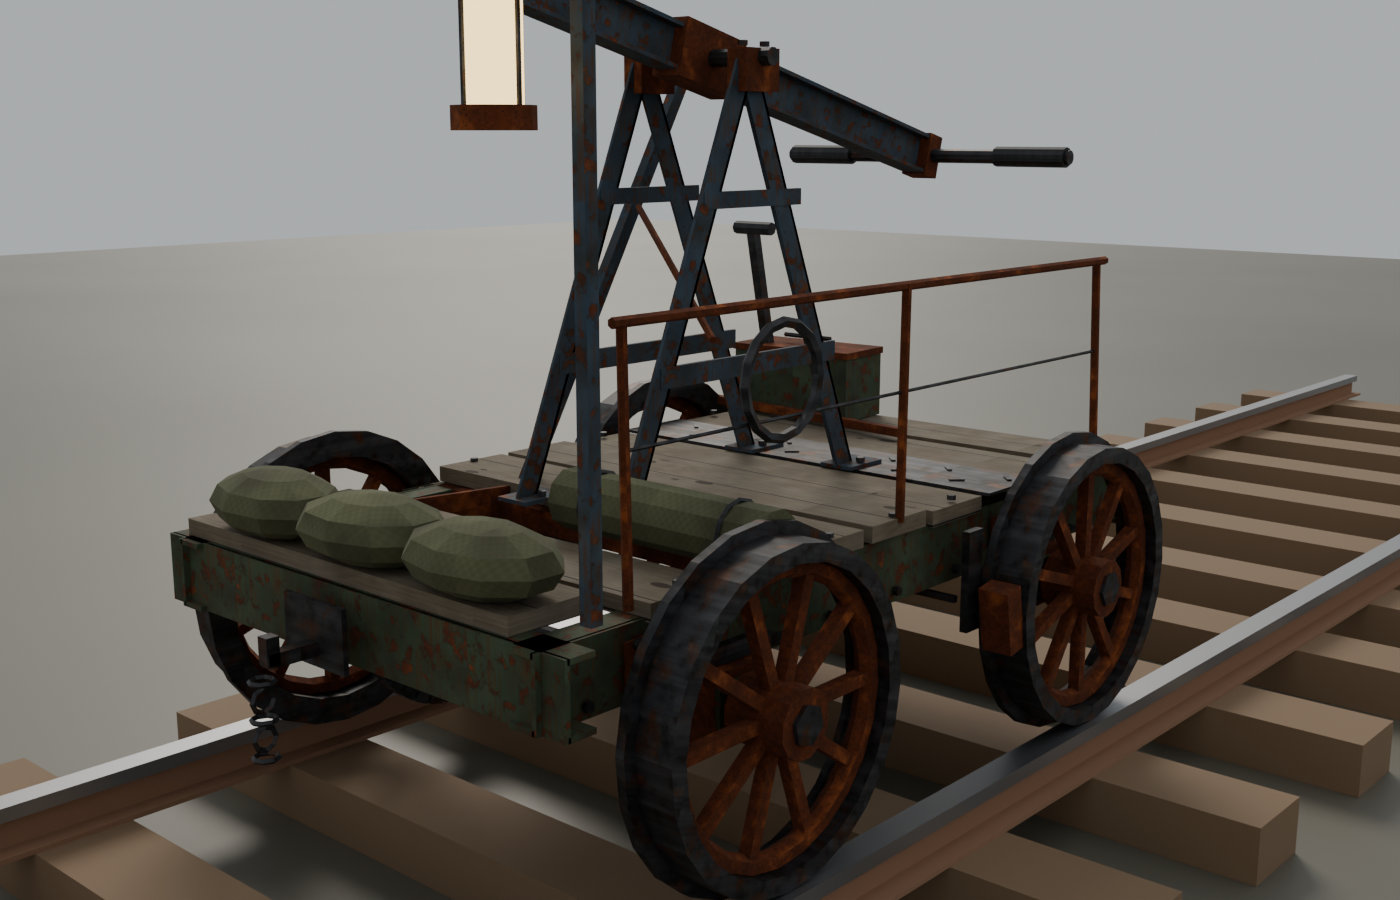
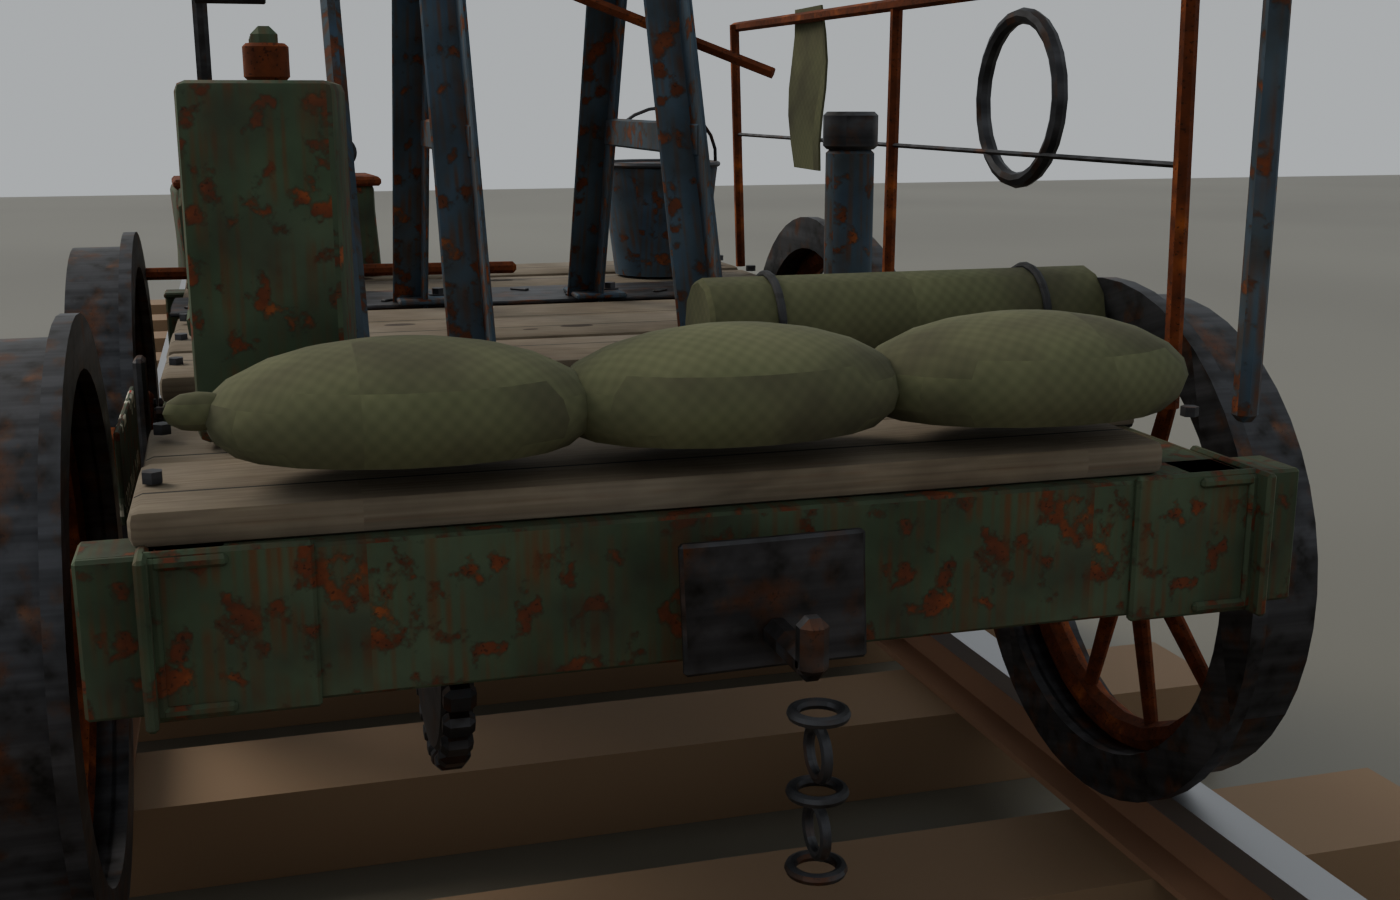
Hand car: layers 5-7, rounded geometry, LOD1/LOD2
- bevel on every box, up to 32-sided cylinders, oval tapered spokes,
  smooth-by-angle shading so curved parts show no facets
- layer 5 fasteners/welds, layer 6 track-walker gear, layer 7 damage
- decimated LOD1/LOD2 exports keeping named selections

Claude-Session: https://claude.ai/code/session_01TKUioEqxmWdNM9STt7fQBA

diff --git a/tools/blender/handcar_zone.py b/tools/blender/handcar_zone.py
@@ -8,6 +8,15 @@
             керосиновый фонарь на штанге, ящик с инструментом, мешки с песком, моток проволоки,
             изолента на ручках, табличка с трафаретным номером.
   СЛОЙ 4 — материалы: процедурные текстуры (tools/textures/make_textures.py) + UV-развёртка кубом.
+  СЛОЙ 5 — крепёж и сварка: сварные швы, шайбы под гайками, U-болты рессор, шплинты, пресс-маслёнки,
+            гайки на концах осей.
+  СЛОЙ 6 — быт путевого обходчика: маслёнка с носиком, ведро с песком, канистра, навесной замок на ящике,
+            термос, моток верёвки на штанге фонаря, тряпка на поручне.
+  СЛОЙ 7 — повреждения: вмятины на листовом металле, пулевые отверстия в кожухе и ящике, расщеп доски.
+
+Скругление: все бруски получают фаску (bevel), цилиндры — до 32 граней, всё сглаживается по углу
+(Smooth by Angle 35°), поэтому граней не видно, а плоскости остаются плоскими.
+Дополнительно сохраняются упрощённые handcar_lod1 / handcar_lod2 для дальних LOD.
 
 Named selections / memory-точки (не менять — на них завязаны model.cfg и скрипт):
   lever, wheel_fl, wheel_fr, wheel_rl, wheel_rr, body;
@@ -76,20 +85,82 @@ def _finish(o, name, mat):
     return o
 
 
-def box(name, size, loc, mat, rot=(0, 0, 0)):
+def bevel(o, width, segments):
+    mod = o.modifiers.new("bevel", "BEVEL")
+    mod.width = width
+    mod.segments = segments
+    mod.limit_method = "ANGLE"
+    mod.angle_limit = math.radians(40)
+    mod.harden_normals = False
+    bpy.context.view_layer.objects.active = o
+    bpy.ops.object.modifier_apply(modifier=mod.name)
+
+
+def box(name, size, loc, mat, rot=(0, 0, 0), round_edges=True):
+    """Брусок с фаской: на рёбрах ловится блик, граней не видно."""
     bpy.ops.mesh.primitive_cube_add(size=1, location=loc, rotation=rot)
     o = bpy.context.active_object
     o.scale = size
     bpy.ops.object.transform_apply(location=False, rotation=False, scale=True)
+    smallest = min(size)
+    if round_edges and smallest > 0.004:
+        bevel(o, min(0.012, smallest * 0.3), 2 if smallest > 0.03 else 1)
     return _finish(o, name, mat)
 
 
-def cyl(name, r, depth, loc, mat, rot=(0, 0, 0), verts=12):
+def auto_verts(r):
+    """Число граней цилиндра по радиусу: мелочь 12, крупное до 32."""
+    return int(max(12, min(32, round(r * 160 / 4) * 4)))
+
+
+def cyl(name, r, depth, loc, mat, rot=(0, 0, 0), verts=None):
+    if verts is None or verts > 6:
+        verts = max(verts or 0, auto_verts(r))
     bpy.ops.mesh.primitive_cylinder_add(vertices=verts, radius=r, depth=depth, location=loc, rotation=rot)
+    o = bpy.context.active_object
+    if verts > 6 and depth > 0.02:
+        bevel(o, min(r * 0.15, depth * 0.2, 0.006), 1)
+    return _finish(o, name, mat)
+
+
+def cone(name, r1, r2, depth, loc, mat, rot=(0, 0, 0), verts=12):
+    bpy.ops.mesh.primitive_cone_add(vertices=verts, radius1=r1, radius2=r2, depth=depth, location=loc, rotation=rot)
     return _finish(bpy.context.active_object, name, mat)
 
 
+def sphere(name, r, loc, mat, scale=(1, 1, 1), seg=(16, 10), rot=(0, 0, 0)):
+    bpy.ops.mesh.primitive_uv_sphere_add(segments=seg[0], ring_count=seg[1], radius=r, location=loc, rotation=rot)
+    o = bpy.context.active_object
+    o.scale = scale
+    bpy.ops.object.transform_apply(location=False, rotation=True, scale=True)
+    return _finish(o, name, mat)
+
+
+def smooth(obj, angle=35):
+    bpy.ops.object.select_all(action="DESELECT")
+    obj.select_set(True)
+    bpy.context.view_layer.objects.active = obj
+    bpy.ops.object.shade_smooth_by_angle(angle=math.radians(angle))
+
+
+def dent(obj, amount, cuts=4, seed=0):
+    """Вмятины: подразбить лист и сдвинуть вершины гладким «шумом» из синусов."""
+    bpy.ops.object.select_all(action="DESELECT")
+    obj.select_set(True)
+    bpy.context.view_layer.objects.active = obj
+    bpy.ops.object.mode_set(mode="EDIT")
+    bpy.ops.mesh.select_all(action="SELECT")
+    bpy.ops.mesh.subdivide(number_cuts=cuts)
+    bpy.ops.object.mode_set(mode="OBJECT")
+    for v in obj.data.vertices:
+        x, y, z = v.co
+        n = (math.sin(x * 23 + seed) * math.sin(y * 19 + seed * 2) + math.sin(z * 17 + y * 7 + seed)) * 0.5
+        v.co.x += n * amount
+        v.co.y += math.sin(x * 13 + z * 11 + seed) * amount * 0.6
+
+
 def torus(name, R, r, loc, mat, rot=(0, 0, 0), seg=(20, 6)):
+    seg = (max(seg[0], 24), max(seg[1], 8))
     bpy.ops.mesh.primitive_torus_add(major_radius=R, minor_radius=r, major_segments=seg[0], minor_segments=seg[1],
                                      location=loc, rotation=rot)
     return _finish(bpy.context.active_object, name, mat)
@@ -99,7 +170,7 @@ ROT_X = (0, math.radians(90), 0)   # ось цилиндра вдоль X
 ROT_Y = (math.radians(90), 0, 0)   # ось цилиндра вдоль Y
 
 
-def tube_x(name, r_out, r_in, width, loc, mat, segments=24):
+def tube_x(name, r_out, r_in, width, loc, mat, segments=48):
     """Кольцо с осью X (бандаж/обод)."""
     import bmesh
     mesh = bpy.data.meshes.new(name)
@@ -286,11 +357,19 @@ def wheel(name, x, y, m):
     for i in range(spokes):
         a = 2 * math.pi * i / spokes
         r = (WHEEL_R - 0.06 + 0.075) / 2
-        parts.append(box(f"{name}_spoke{i}", (0.03, 0.028, WHEEL_R - 0.11),
-                         (x, y + math.sin(a) * r, WHEEL_R + math.cos(a) * r), m["rust"], (-a, 0, 0)))
+        # спица — овальный конус: толще у ступицы
+        sp = cone(f"{name}_spoke{i}", 0.017, 0.012, WHEEL_R - 0.10,
+                  (x, y + math.sin(a) * r, WHEEL_R + math.cos(a) * r), m["rust"], (-a, 0, 0), 10)
+        sp.scale = (0.8, 1.0, 1.0)
+        parts.append(sp)
+    # гайки ступицы
+    for k in range(5):
+        a = 2 * math.pi * k / 5
+        parts.append(cyl(f"{name}_nut{k}", 0.009, 0.16, (x, y + math.sin(a) * 0.05, WHEEL_R + math.cos(a) * 0.05), m["steel"], ROT_X, 6))
     o = join(parts, name)
     set_origin(o, (x, y, WHEEL_R))
     uv_cube(o, 0.6)
+    smooth(o)
     selection(o, name)
     return o
 
@@ -454,12 +533,14 @@ def layer3_props(m, out_props):
 
     # мешки с песком спереди (вместо буфера)
     for i, x in enumerate((-0.35, 0.0, 0.35)):
-        bpy.ops.mesh.primitive_uv_sphere_add(segments=10, ring_count=6, radius=1, location=(x, 1.02, DECK_TOP + 0.07))
-        s = bpy.context.active_object
-        s.scale = (0.2, 0.13, 0.075)
-        s.rotation_euler = (0, 0, math.radians(rnd.uniform(-8, 8)))
-        bpy.ops.object.transform_apply(location=False, rotation=True, scale=True)
-        p.append(_finish(s, f"sandbag{i}", m["canvas"]))
+        bag = sphere(f"sandbag{i}", 1, (x, 1.02, DECK_TOP + 0.07), m["canvas"], (0.2, 0.13, 0.075), (20, 12),
+                     (0, 0, math.radians(rnd.uniform(-8, 8))))
+        # прижать низ к полу и «завязать» угол
+        for v in bag.data.vertices:          # координаты локальные, мешок от -0.075 до 0.075 по Z
+            if v.co.z < -0.035:
+                v.co.z = -0.035 - (-0.035 - v.co.z) * 0.25
+        p.append(bag)
+        p.append(sphere(f"sandbag_tie{i}", 0.025, (x + 0.2, 1.02, DECK_TOP + 0.08), m["canvas"], (1.4, 0.8, 0.8), (10, 6)))
     # брезент, скатанный у стойки
     p.append(cyl("tarp_roll", 0.07, 0.6, (-0.4, 0.55, DECK_TOP + 0.07), m["canvas"], ROT_X, 10))
     for k in (-0.2, 0.2):
@@ -473,6 +554,111 @@ def layer3_plate(m):
     pl = box("number_plate", (0.008, 0.36, 0.13), (SILL_X + 0.075, 0.25, DECK_TOP - 0.12), m["plate"])
     uv_fit(pl)
     return pl
+
+
+# ============================================================================ СЛОЙ 5: крепёж и сварка
+
+def weld_seam(prefix, start, end, mat, out, r=0.006):
+    """Сварной шов — цепочка сплюснутых капель."""
+    n = max(3, int(math.dist(start, end) / 0.012))
+    for i in range(n):
+        f = i / (n - 1)
+        p = [start[k] + (end[k] - start[k]) * f for k in range(3)]
+        out.append(sphere(f"{prefix}{i}", r, p, mat, (1.3, 1.3, 0.7), (8, 5)))
+
+
+def layer5_fasteners(m, out):
+    # швы по краям заплаток на раме
+    for sx in (-1, 1):
+        x = sx * (SILL_X + 0.018)
+        for (y, ln) in ((-0.55, 0.28), (0.8, 0.2)):
+            z0, z1 = DECK_TOP - 0.175, DECK_TOP - 0.065
+            weld_seam(f"weld{sx}{y}a", (x, y - ln / 2, z0), (x, y - ln / 2, z1), m["rust"], out)
+            weld_seam(f"weld{sx}{y}b", (x, y + ln / 2, z0), (x, y + ln / 2, z1), m["rust"], out)
+    # гайки + шайбы на концах осей, шплинты
+    for y in (-AXLE_Y, AXLE_Y):
+        for sx in (-1, 1):
+            xe = sx * (GAUGE / 2 + 0.075)
+            out.append(cyl(f"axnut{y}{sx}", 0.03, 0.03, (xe, y, WHEEL_R), m["steel"], ROT_X, 6))
+            out.append(cyl(f"axwash{y}{sx}", 0.042, 0.006, (xe - sx * 0.018, y, WHEEL_R), m["steel"], ROT_X))
+            out.append(torus(f"cotter{y}{sx}", 0.012, 0.0025, (xe + sx * 0.02, y, WHEEL_R + 0.02), m["steel"], (0, 0, 0), (12, 6)))
+            # пресс-маслёнка на буксе
+            out.append(cyl(f"grease{y}{sx}", 0.008, 0.03, (sx * SILL_X, y, WHEEL_R + 0.09), m["steel"]))
+            out.append(sphere(f"greaseball{y}{sx}", 0.009, (sx * SILL_X, y, WHEEL_R + 0.108), m["steel"]))
+            # U-болты рессоры
+            for dy in (-0.04, 0.04):
+                out.append(torus(f"ubolt{y}{sx}{dy}", 0.04, 0.006, (sx * SILL_X, y + dy, WHEEL_R + 0.1), m["steel"], ROT_Y, (16, 6)))
+    # угловые косынки рамы (закрывают стык швеллеров)
+    for sx in (-1, 1):
+        for sy in (-1, 1):
+            out.append(box(f"gusset{sx}{sy}", (0.012, 0.16, 0.17), (sx * (SILL_X + 0.008), sy * 1.06, DECK_TOP - 0.12), m["paint"]))
+            out.append(box(f"gusset_end{sx}{sy}", (0.16, 0.012, 0.17), (sx * (SILL_X - 0.07), sy * (1.10 + 0.008), DECK_TOP - 0.12), m["paint"]))
+            bolt_row(f"gb{sx}{sy}", (sx * (SILL_X + 0.016), sy * 1.02, DECK_TOP - 0.16), (sx * (SILL_X + 0.016), sy * 1.02, DECK_TOP - 0.08), 2, "x" if sx > 0 else "-x", m["steel"], out)
+    # шайбы под болтами ног стойки
+    for sx in (-0.17, 0.17):
+        for sy in (-1, 1):
+            for dx in (-0.03, 0.03):
+                out.append(cyl(f"legwash{sx}{sy}{dx}", 0.018, 0.004, (sx + dx, sy * 0.42, DECK_TOP + 0.011), m["steel"]))
+
+
+# ============================================================================ СЛОЙ 6: быт обходчика
+
+def layer6_life(m, out):
+    # маслёнка с длинным носиком на крышке ящика
+    ox, oy, oz = 0.32, -0.97, DECK_TOP + 0.215
+    out.append(cyl("oilcan_body", 0.045, 0.07, (ox, oy, oz + 0.035), m["steel"]))
+    out.append(cone("oilcan_top", 0.045, 0.012, 0.04, (ox, oy, oz + 0.09), m["steel"], (0, 0, 0), 16))
+    out.append(cyl("oilcan_spout", 0.004, 0.16, (ox + 0.06, oy, oz + 0.13), m["steel"], (0, math.radians(55), 0), 8))
+    out.append(torus("oilcan_handle", 0.03, 0.005, (ox - 0.045, oy, oz + 0.05), m["steel"], ROT_Y, (16, 6)))
+    # ведро с песком (задний левый угол)
+    bx, by = -0.4, -0.78
+    out.append(cone("bucket", 0.1, 0.13, 0.24, (bx, by, DECK_TOP + 0.12), m["paint2"], (0, 0, 0), 28))
+    out.append(cyl("bucket_sand", 0.122, 0.01, (bx, by, DECK_TOP + 0.225), m["canvas"], (0, 0, 0), 28))
+    out.append(torus("bucket_rim", 0.13, 0.006, (bx, by, DECK_TOP + 0.24), m["steel"], (0, 0, 0), (28, 6)))
+    out.append(torus("bucket_handle", 0.13, 0.004, (bx, by, DECK_TOP + 0.24), m["steel"], (math.radians(70), 0, 0), (24, 6)))
+    # канистра (передний правый угол), скруглённая
+    cx, cy = 0.46, 0.66
+    out.append(box("jerrycan", (0.17, 0.3, 0.4), (cx, cy, DECK_TOP + 0.2), m["paint"], (0, 0, math.radians(-6))))
+    for k in (-1, 1):
+        out.append(box(f"jerry_x{k}", (0.012, 0.26, 0.03), (cx + 0.086, cy, DECK_TOP + 0.2), m["paint"], (math.radians(35 * k), 0, math.radians(-6))))
+    out.append(cyl("jerry_cap", 0.025, 0.04, (cx, cy + 0.1, DECK_TOP + 0.42), m["rust"]))
+    for k in range(3):
+        out.append(box(f"jerry_handle{k}", (0.03, 0.03, 0.06), (cx, cy - 0.1 + k * 0.08, DECK_TOP + 0.43), m["paint"]))
+    # навесной замок на ящике
+    out.append(box("hasp", (0.04, 0.008, 0.07), (0.42, -0.877, DECK_TOP + 0.17), m["steel"], (0, 0, math.radians(4))))
+    out.append(box("padlock", (0.05, 0.022, 0.045), (0.42, -0.868, DECK_TOP + 0.12), m["steel"], (0, 0, math.radians(4))))
+    out.append(torus("padlock_shackle", 0.016, 0.004, (0.42, -0.868, DECK_TOP + 0.15), m["steel"], ROT_Y, (16, 6)))
+    # термос у брезента
+    out.append(cyl("thermos", 0.04, 0.3, (-0.46, 0.2, DECK_TOP + 0.15), m["paint2"]))
+    out.append(cyl("thermos_cup", 0.045, 0.06, (-0.46, 0.2, DECK_TOP + 0.33), m["steel"]))
+    # моток верёвки на штанге фонаря
+    out.append(torus("rope_coil", 0.1, 0.014, (-SILL_X - 0.05, 0.99, DECK_TOP + 0.75), m["canvas"], (0, math.radians(90), 0), (24, 8)))
+    out.append(torus("rope_coil2", 0.095, 0.014, (-SILL_X - 0.05, 1.0, DECK_TOP + 0.74), m["canvas"], (0, math.radians(84), 0), (24, 8)))
+    # тряпка, перекинутая через поручень
+    rag = box("rag", (0.006, 0.18, 0.32), (-SILL_X - 0.025, -0.45, DECK_TOP + 0.4), m["canvas"], round_edges=False)
+    dent(rag, 0.02, 5, 3)
+    out.append(rag)
+
+
+# ============================================================================ СЛОЙ 7: повреждения
+
+def layer7_damage(m, body_parts):
+    # вмятины на листовом металле
+    for o in body_parts:
+        if o and o.name in ("gear_guard", "toolbox", "toolbox_lid", "buffer_plate1", "buffer_plate-1", "plank_sheet"):
+            dent(o, 0.006 if o.name != "toolbox" else 0.008, 3, hash(o.name) % 7)
+    holes = []
+    # пулевые отверстия: в кожухе шестерни и боковине ящика (тёмные кольца с вывороченным краем)
+    for (x, y, z, rot) in ((0.343, 0.55, WHEEL_R + 0.15, ROT_X), (0.343, 0.66, WHEEL_R + 0.08, ROT_X),
+                           (0.42, -0.877, DECK_TOP + 0.05, ROT_Y), (0.55, -0.9, DECK_TOP + 0.13, ROT_Y)):
+        holes.append(cyl(f"hole{x}{y}{z}", 0.007, 0.004, (x, y, z), m["tape"], rot, 10))
+        holes.append(torus(f"hole_lip{x}{y}{z}", 0.009, 0.0025, (x, y, z), m["rust"], rot, (12, 6)))
+    # расщеп обломанной доски
+    for k in range(4):
+        holes.append(cone(f"splinter{k}", 0.012, 0.0, 0.08 + k * 0.02,
+                          (-0.6 + 0.12 + k * 0.012, 0.98 - 0.08 + k * 0.05, DECK_TOP - 0.02),
+                          m["wood"], (0, math.radians(-90), math.radians(rnd.uniform(-20, 20))), 6))
+    return holes
 
 
 # ============================================================================ коромысло (слой 2+3)
@@ -497,6 +683,7 @@ def build_lever(m):
     lever = join(lv, "lever")
     set_origin(lever, (0, 0, PIVOT_Z))
     uv_cube(lever, 0.6)
+    smooth(lever)
     selection(lever, "lever")
     return lever
 
@@ -520,11 +707,15 @@ def build(outdir, tex_dir, save_fn, reset_fn):
     layer3_wear(m, body_parts)                  # СЛОЙ 3
     props = []
     layer3_props(m, props)
+    layer5_fasteners(m, body_parts)             # СЛОЙ 5
+    layer6_life(m, props)                       # СЛОЙ 6
+    damage = layer7_damage(m, body_parts + props + metal)   # СЛОЙ 7
 
-    body = join(body_parts + wood + metal + props, "body")
+    body = join(body_parts + wood + metal + props + damage, "body")
     uv_cube(body, 0.8)                          # СЛОЙ 4
     plate = layer3_plate(m)
     body = join([body, plate], "body")
+    smooth(body)
     selection(body, "body")
 
     for name, x, y in (("wheel_fl", -HALF, AXLE_Y), ("wheel_fr", HALF, AXLE_Y),
@@ -544,6 +735,17 @@ def build(outdir, tex_dir, save_fn, reset_fn):
     geo = box("geometry_deck", (1.34, 2.3, 0.30), (0, 0, DECK_TOP - 0.15), m["wood"])
     geo.display_type = "WIRE"
 
-    tris = sum(len(o.data.polygons) for o in bpy.data.objects if o.type == "MESH" and not o.name.startswith("geometry"))
-    print(f"[Drezina] handcar faces: {tris}")
+    meshes = [o for o in bpy.data.objects if o.type == "MESH" and not o.name.startswith("geometry")]
+    print(f"[Drezina] handcar faces LOD0: {sum(len(o.data.polygons) for o in meshes)}")
     save_fn(outdir, "handcar")
+
+    # упрощённые LOD (selections сохраняются)
+    for lod, ratio in ((1, 0.4), (2, 0.15)):
+        for o in meshes:
+            mod = o.modifiers.new("decimate", "DECIMATE")
+            mod.ratio = ratio
+            bpy.context.view_layer.objects.active = o
+            bpy.ops.object.modifier_apply(modifier=mod.name)
+        print(f"[Drezina] handcar faces LOD{lod}: {sum(len(o.data.polygons) for o in meshes)}")
+        save_fn(outdir, f"handcar_lod{lod}")
+    bpy.ops.wm.open_mainfile(filepath=os.path.join(outdir, "handcar.blend"))

diff --git a/README.md b/README.md
@@ -5,7 +5,7 @@
 рельсы, игрок встаёт за рычаг и едет. Направление можно переключать.
 
 ![дрезина](docs/handcar_preview.png)
-![сзади](docs/handcar_rear.png)
+![крупно](docs/handcar_closeup.png)
 
 Дрезина сделана по Sheffield Hand Car (~1890) в стиле заброшенной постсоветской зоны: старая ручная
 дрезина, полвека простоявшая на брошенной ветке и подлатанная путейцами.
@@ -161,9 +161,27 @@ profile_example/Drezina/      пример admins.json и settings.json
 4. **Материалы.** Процедурные текстуры: облупленная зелёная и синяя краска с ржавчиной под ней,
    ржавчина, рассохшееся дерево, сталь с мазутом, изолента, брезент, табличка с трафаретом.
    UV-развёртка кубом, около 1 м на тайл.
+5. **Крепёж и сварка.** Сварные швы по краям заплаток, угловые косынки рамы, гайки, шайбы и шплинты
+   на концах осей, пресс-маслёнки на буксах, U-болты рессор, гайки ступиц колёс.
+6. **Быт путевого обходчика.** Маслёнка с длинным носиком, ведро с песком, канистра, навесной замок
+   на ящике, термос, моток верёвки на штанге фонаря, тряпка на поручне.
+7. **Повреждения.** Вмятины на листовом металле (кожух шестерни, ящик, рифлёный лист), пулевые
+   отверстия с вывороченными краями, расщеп обломанной доски.
 
-Модель — около 4 тысяч полигонов, подходит для LOD 0. Фонарь светит по-настоящему (мерцающий тёплый
-свет), пока на дрезине стоит водитель. Для этого нужна memory-точка `lamp`.
+**Без видимых граней.** У всех брусков фаска, у цилиндров до 32 граней, спицы — овальные конусы.
+Всё сглажено по углу 35°: криволинейное выглядит гладким, плоское остаётся плоским.
+
+| LOD | Полигонов | Файл |
+|---|---|---|
+| 0 (вблизи) | ~24 000 | `handcar` |
+| 1 | ~13 000 | `handcar_lod1` |
+| 2 (издалека) | ~2 300 | `handcar_lod2` |
+
+В Object Builder положите их в Resolution LOD 0 / 1 / 2. Selections в LOD 1 и 2 сохраняются,
+поэтому анимации там тоже работают.
+
+Фонарь светит по-настоящему (мерцающий тёплый свет), пока на дрезине стоит водитель. Для этого нужна
+memory-точка `lamp`.
 
 ### Текстуры
 
